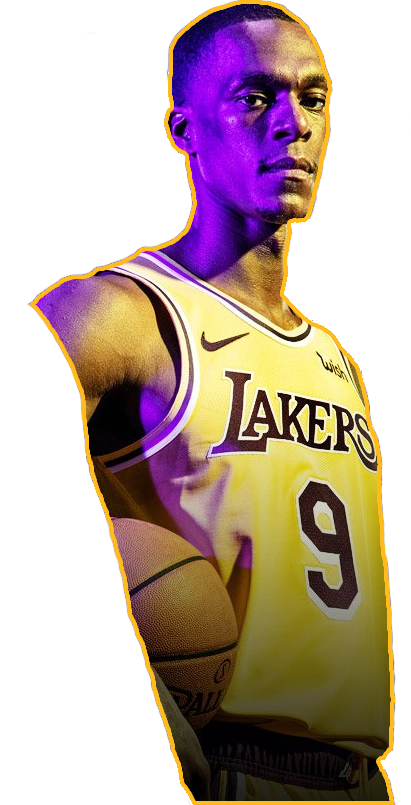
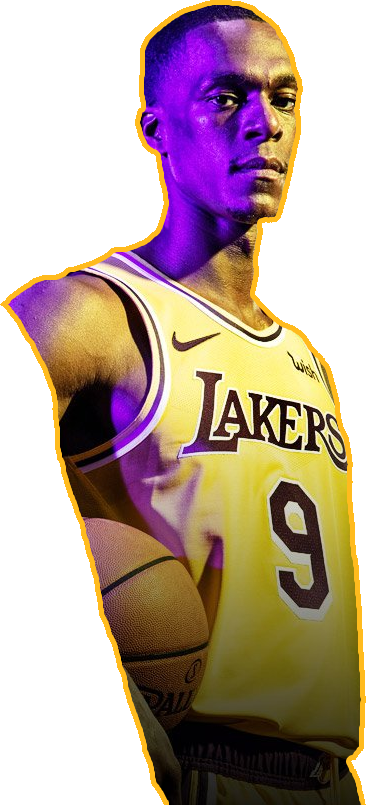
added player photos onto landing
All but JR, Dudley, Dwight, KCP

Changed region(s): [[0.0, 0.0, 1.0, 1.0], [0.6011, 0.1863, 0.6311, 0.2174]]

diff --git a/index.html b/index.html
@@ -9,7 +9,7 @@
       href="https://fonts.googleapis.com/css2?family=Heebo:wght@300;500;700&display=swap"
       rel="stylesheet"
     />
-    <title>Los Angeles Lakers Team Page</title>
+    <title>Los Angeles Lakers Fan Page</title>
   </head>
   <body>
     <header class="row" role="tablist">
@@ -41,6 +41,48 @@
           src="./img/rondo.png"
           alt="Rajon Rondo"
           id="rondo"
+        />
+        <img
+          class="landing__composition--player landing__composition--player--lebron"
+          src="./img/lebron.png"
+          alt="Lebron James"
+          id="lebron"
+        />
+        <img
+          class="landing__composition--player landing__composition--player--davis"
+          src="./img/davis.png"
+          alt="Anthony Davis"
+          id="davis"
+        />
+        <img
+          class="landing__composition--player landing__composition--player--caruso"
+          src="./img/caruso.png"
+          alt="Alex Caruso"
+          id="caruso"
+        />
+        <img
+          class="landing__composition--player landing__composition--player--mcgee"
+          src="./img/mcgee.png"
+          alt="Javale McGee"
+          id="mcgee"
+        />
+        <img
+          class="landing__composition--player landing__composition--player--waiters"
+          src="./img/waiters.png"
+          alt="Dion Waiters"
+          id="waiters"
+        />
+        <img
+          class="landing__composition--player landing__composition--player--bradley"
+          src="./img/bradley.png"
+          alt="Avery Bradley"
+          id="bradley"
+        />
+        <img
+          class="landing__composition--player landing__composition--player--green"
+          src="./img/green.png"
+          alt="Danny Green"
+          id="green"
         />
       </div>
     </div>

diff --git a/sass/main.css b/sass/main.css
@@ -82,6 +82,7 @@ nav {
 
 body {
   background-color: #000000;
+  overflow: hidden;
 }
 
 .landing__composition {
@@ -106,13 +107,60 @@ body {
 .landing__composition--player--kuzma {
   z-index: 1000;
   bottom: 0;
-  left: 0;
+  left: 40rem;
+  z-index: 1000;
 }
 
 .landing__composition--player--rondo {
   height: 50rem;
-  z-index: 900;
   bottom: 0;
-  left: 28rem;
+  left: 25rem;
+  z-index: 900;
+}
+
+.landing__composition--player--lebron {
+  bottom: 0;
+  left: 70rem;
+  z-index: 1000;
+}
+
+.landing__composition--player--davis {
+  bottom: 0;
+  right: 58rem;
+  z-index: 900;
+}
+
+.landing__composition--player--caruso {
+  height: 53rem;
+  bottom: 0;
+  right: 30rem;
+  z-index: 800;
+}
+
+.landing__composition--player--mcgee {
+  height: 57rem;
+  bottom: 0;
+  right: 0;
+  z-index: 900;
+}
+
+.landing__composition--player--waiters {
+  height: 50rem;
+  bottom: 25rem;
+  right: 0rem;
+  z-index: 700;
+}
+
+.landing__composition--player--bradley {
+  bottom: 0;
+  left: -10rem;
+  z-index: 1000;
+}
+
+.landing__composition--player--green {
+  height: 50rem;
+  bottom: 20rem;
+  left: 10rem;
+  z-index: 800;
 }
 /*# sourceMappingURL=main.css.map */

diff --git a/sass/pages/_landing.scss b/sass/pages/_landing.scss
@@ -1,5 +1,6 @@
 body {
   background-color: $color-black;
+  overflow: hidden;
 }
 
 .landing__composition {
@@ -19,13 +20,44 @@ body {
 
     &--kuzma {
       z-index: 1000;
-      @include bottomLeftAbsolute(0, 0);
+      @include bottomLeftAbsolute(0, 40rem, 1000);
     }
 
     &--rondo {
       height: 50rem;
-      z-index: 900;
-      @include bottomLeftAbsolute(0, 28rem);
+      @include bottomLeftAbsolute(0, 25rem, 900);
+    }
+
+    &--lebron {
+      @include bottomLeftAbsolute(0, 70rem, 1000);
+    }
+
+    &--davis {
+      @include bottomRightAbsolute(0, 58rem, 900);
+    }
+
+    &--caruso {
+      height: 53rem;
+      @include bottomRightAbsolute(0, 30rem, 800);
+    }
+
+    &--mcgee {
+      height: 57rem;
+      @include bottomRightAbsolute(0, 0, 900);
+    }
+
+    &--waiters {
+      height: 50rem;
+      @include bottomRightAbsolute(25rem, 0rem, 700);
+    }
+
+    &--bradley {
+      @include bottomLeftAbsolute(0, -10rem, 1000);
+    }
+
+    &--green {
+      height: 50rem;
+      @include bottomLeftAbsolute(20rem, 10rem, 800);
     }
   }
 }

diff --git a/sass/abstracts/_mixins.scss b/sass/abstracts/_mixins.scss
@@ -4,7 +4,14 @@
   text-transform: uppercase;
 }
 
-@mixin bottomLeftAbsolute($bottom, $left) {
+@mixin bottomLeftAbsolute($bottom, $left, $z-index) {
   bottom: $bottom;
   left: $left;
+  z-index: $z-index;
+}
+
+@mixin bottomRightAbsolute($bottom, $right, $z-index) {
+  bottom: $bottom;
+  right: $right;
+  z-index: $z-index;
 }
